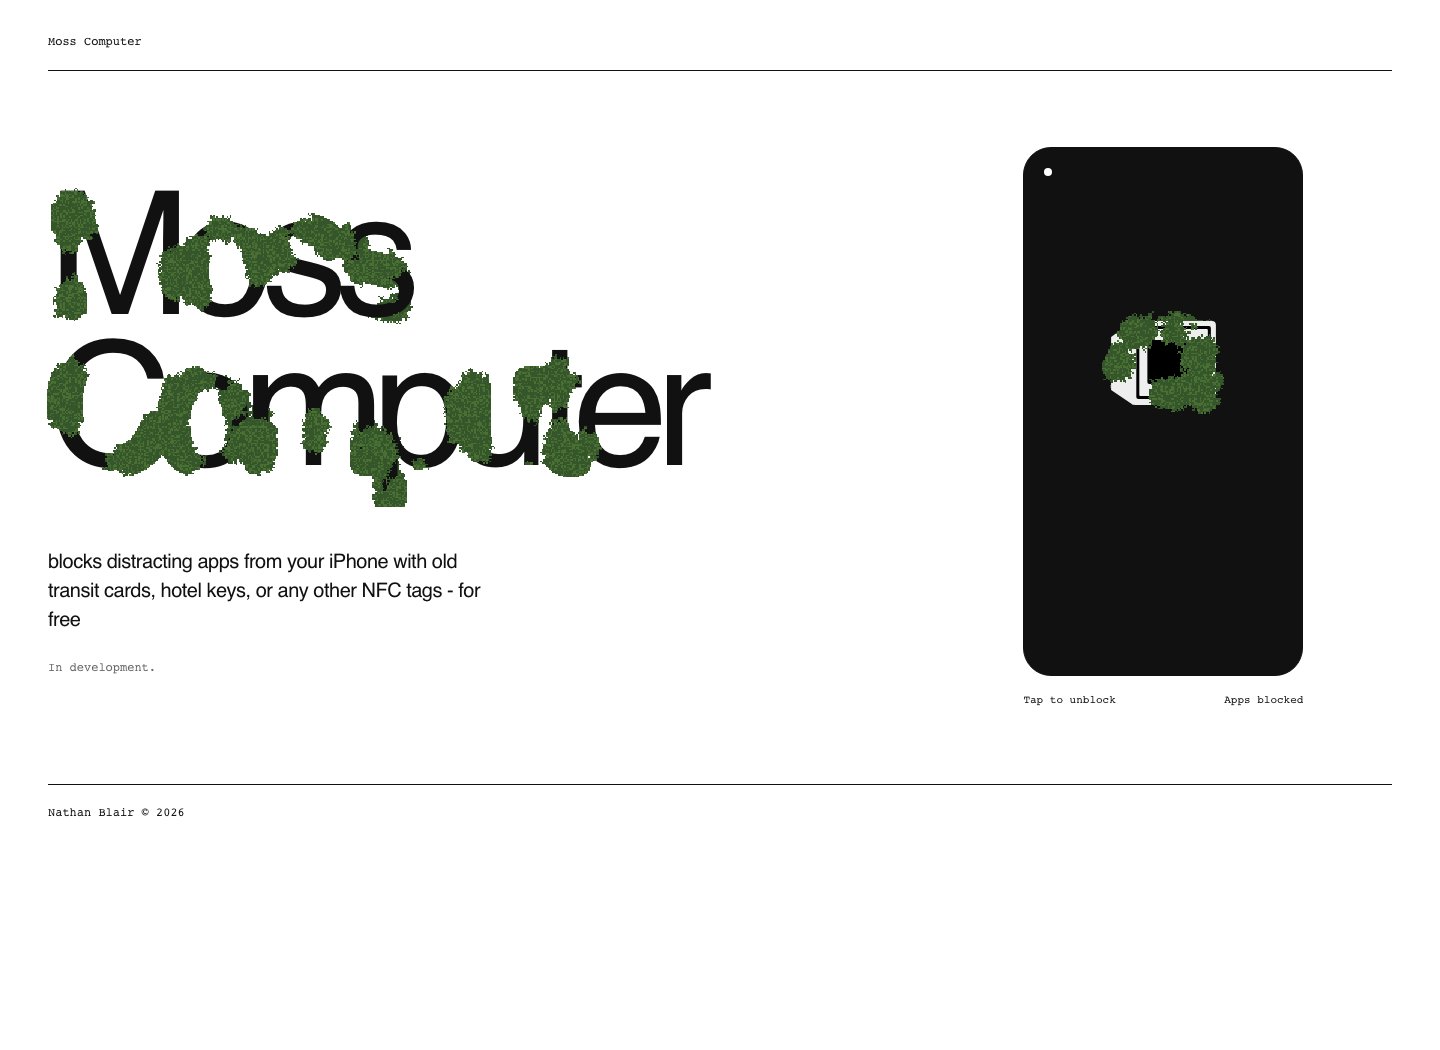
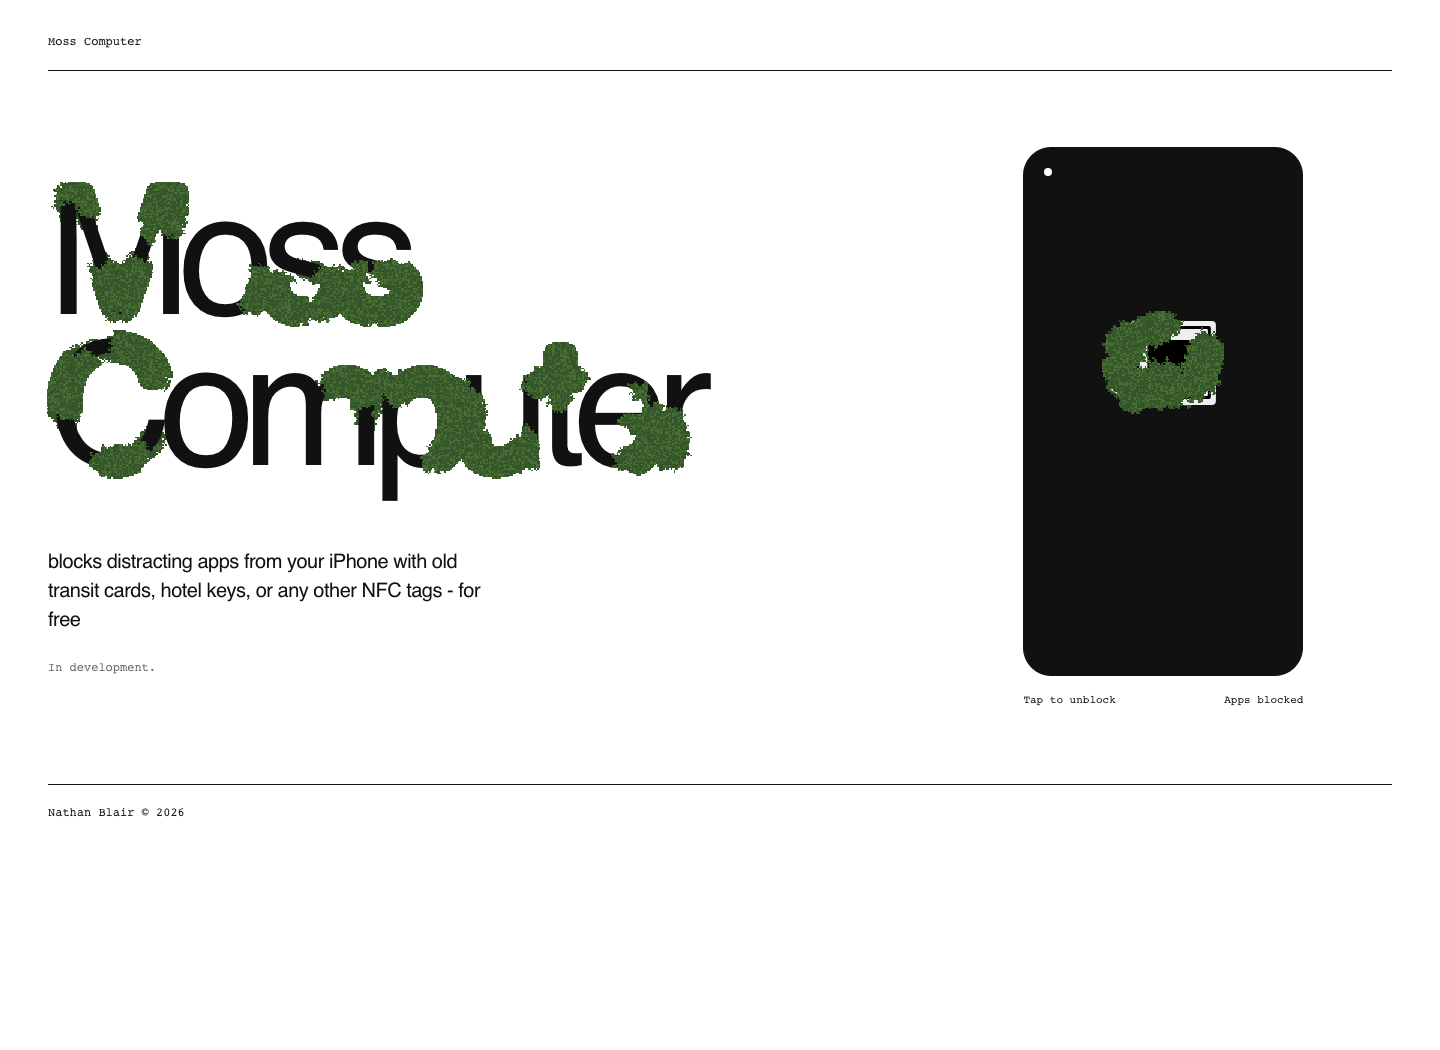
Raise the moss coverage stop to 180 percent

Changed region(s): [[0.0312, 0.1524, 0.5, 0.4876], [0.75, 0.2743, 0.875, 0.3962], [0.0312, 0.3962, 0.0625, 0.4267]]

diff --git a/moss.js b/moss.js
@@ -2,6 +2,8 @@
 // Depth 0: behind the shape; 1: solid shape and its fringe; 2: in front.
 // Cell values: 0 = bare, 1 = new growth, 255 = mature moss.
 // Habitat: 0 = unavailable, 1 = fringe, 2 = seeding surface, 3 = non-seeding surface.
+const maxCoverage = 1.8;
+
 export class MossGrowth {
   constructor(width, height, habitat, random = Math.random, spreadRate = 1) {
     this.width = width;
@@ -30,7 +32,7 @@ export class MossGrowth {
   setBlocked(blocked) {
     this.blocked = blocked;
     if (blocked && !this.cells.some(value => value > 0)) {
-      const seeds = Math.min(12, Math.ceil(this.surfacePixels * 1.5));
+      const seeds = Math.min(12, Math.ceil(this.surfacePixels * maxCoverage));
       for (let n = 0; n < seeds && this.spawners.length; n++) {
         this.cells[this.spawners[Math.floor(this.random() * this.spawners.length)]] = 1;
       }
@@ -38,9 +40,9 @@ export class MossGrowth {
   }
 
   growthProbability(occupiedCells) {
-    // Full speed through one surface's worth of moss, zero at 1.5 surfaces.
+    // Full speed through one surface's worth of moss, zero at 1.8 surfaces.
     if (!this.surfacePixels) return 0;
-    return Math.max(0, Math.min(1, 3 - 2 * occupiedCells / this.surfacePixels));
+    return Math.max(0, Math.min(1, (this.surfacePixels * maxCoverage - occupiedCells) / (this.surfacePixels * (maxCoverage - 1))));
   }
 
   needsUpdate() {
@@ -59,7 +61,7 @@ export class MossGrowth {
     let occupied = 0;
     for (const age of cells) if (age) occupied++;
     const probability = this.growthProbability(occupied);
-    let remainingBirths = Math.max(0, Math.ceil(this.surfacePixels * 1.5) - occupied);
+    let remainingBirths = Math.max(0, Math.ceil(this.surfacePixels * maxCoverage) - occupied);
     next.fill(0);
     for (let z = 0; z < this.depth; z++) {
       for (let y = 0; y < height; y++) {

diff --git a/README.md b/README.md
@@ -10,7 +10,7 @@ Open http://localhost:8000. The landing page uses the geometric computer SVG and
 
 `moss.js` is the cellular automaton; `moss-field.js` builds and renders its habitat; `script.js` connects the landing-page interaction. The phone uses a 144 × 177 grid; title cells cover about 1.5 CSS pixels. Each field has three depth slices. The shape blocks the middle slice and seeds moss on both faces. Enclosed white screen/bezel regions support propagation without spawning colonies. A circular six-cell fringe gives every direction equal room to grow. Growth has no downward incentive or falling strands.
 
-Native text and SVG sit between rear moss and middle/front moss. Title masks follow browser font metrics and rebuild on resize. Two reusable ImageData buffers draw each field. Growth runs at full probability until occupied cells across all three layers equal the solid surface's pixel count, including non-seeding screen areas. Spreading and new colonies then taper linearly to zero at 150% of that count, with a per-tick birth budget enforcing the cap. Text uses the same rule based on its ink surface.
+Native text and SVG sit between rear moss and middle/front moss. Title masks follow browser font metrics and rebuild on resize. Two reusable ImageData buffers draw each field. Growth runs at full probability until occupied cells across all three layers equal the solid surface's pixel count, including non-seeding screen areas. Spreading and new colonies then taper linearly to zero at 180% of that count, with a per-tick birth budget enforcing the cap. Text uses the same rule based on its ink surface.
 
 Updates run at 10 ticks per second and pause when hidden or reduced motion is enabled. Capped fields finish maturing before updates stop. The timer is removed once both fields settle or dry completely; blocking/unblocking, title resizing, and visibility/motion changes restart it when needed.
 
